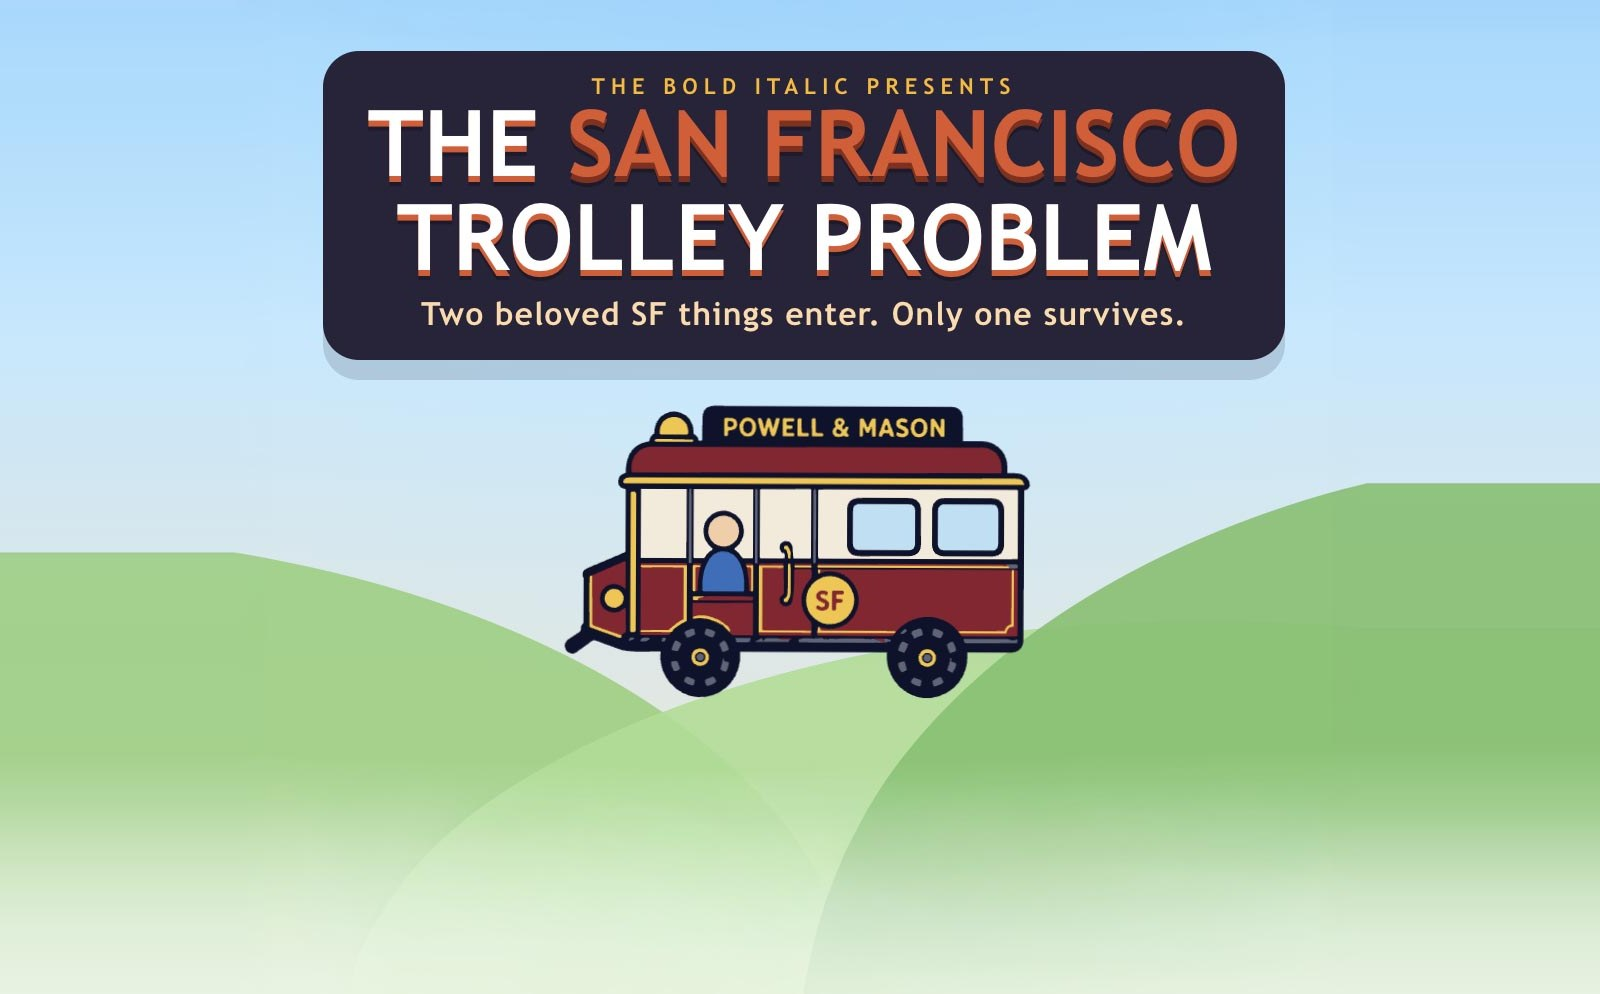
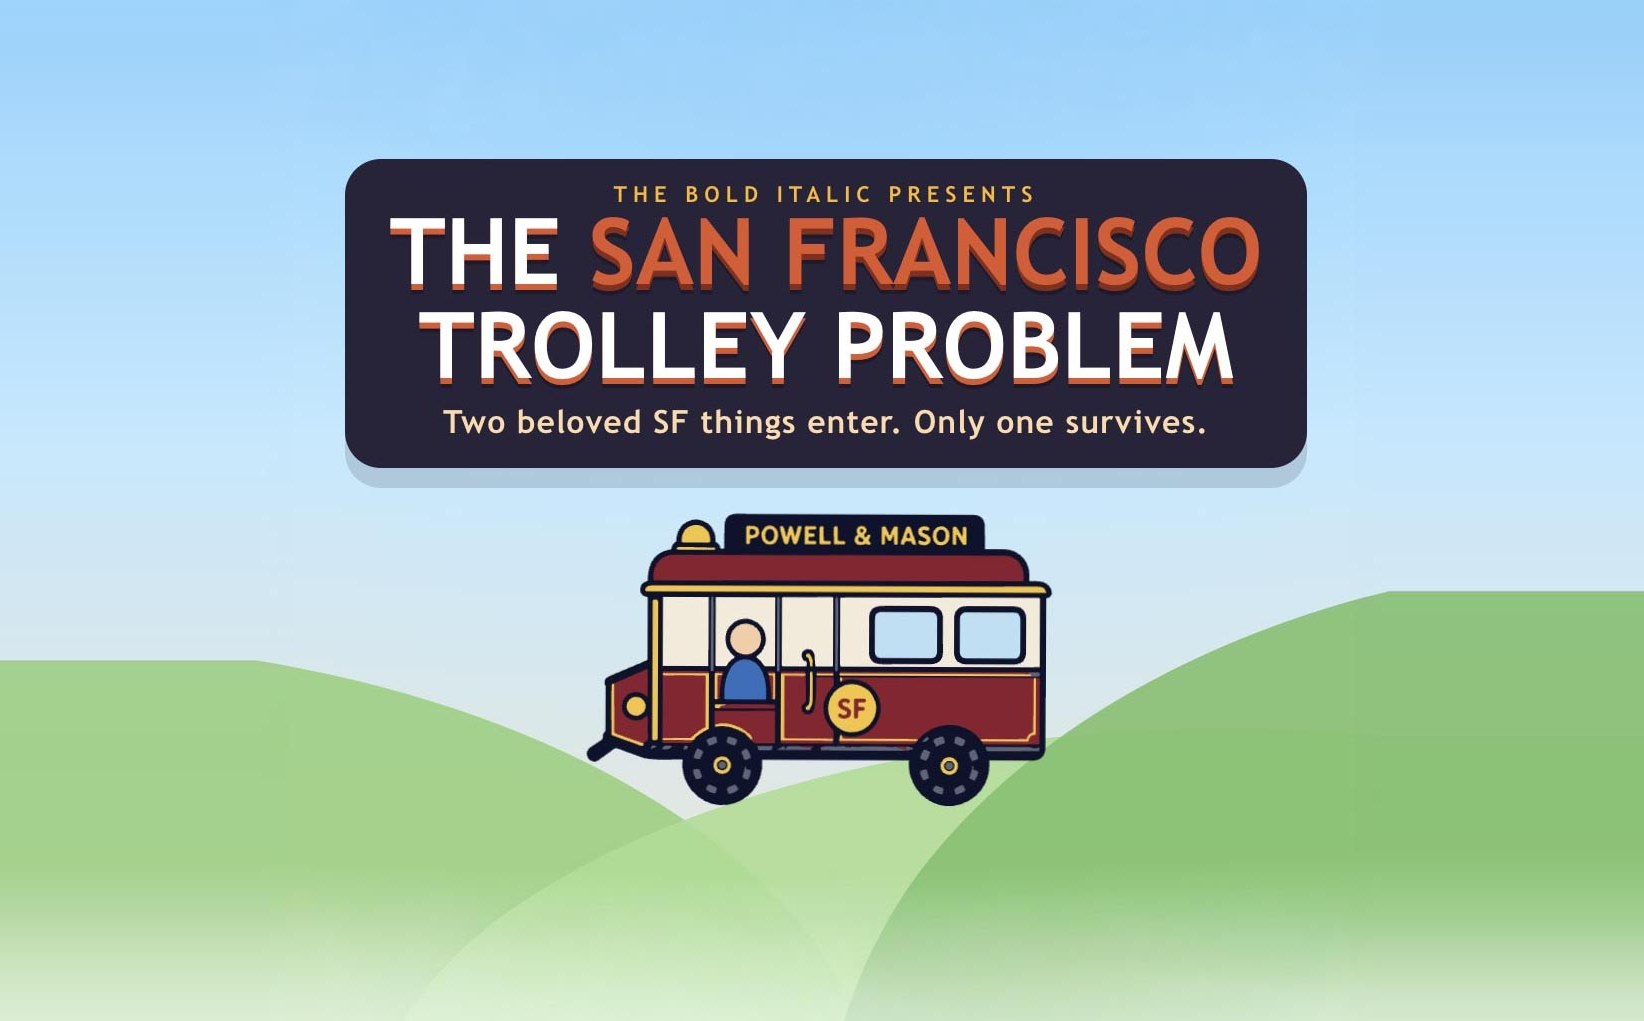
Hub: swap Trolley thumbnail to TrolleyProblem3 (more vertically centered); cache-bust v3

diff --git a/index.html b/index.html
@@ -464,8 +464,8 @@
     <div class="games-grid">
       <a class="game-card" href="/trolley_problem/" data-game="trolley_problem">
         <div class="thumb"><picture>
-          <source srcset="assets/trolley-problem-thumb.webp?v=2" type="image/webp">
-          <img src="assets/trolley-problem-thumb.jpg?v=2" alt="The San Francisco Trolley Problem" loading="lazy">
+          <source srcset="assets/trolley-problem-thumb.webp?v=3" type="image/webp">
+          <img src="assets/trolley-problem-thumb.jpg?v=3" alt="The San Francisco Trolley Problem" loading="lazy">
         </picture></div>
         <div class="cbody">
           <h2>The Trolley Problem</h2>
